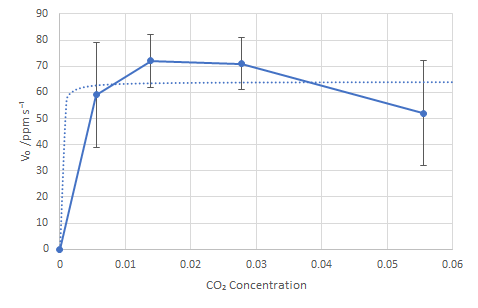
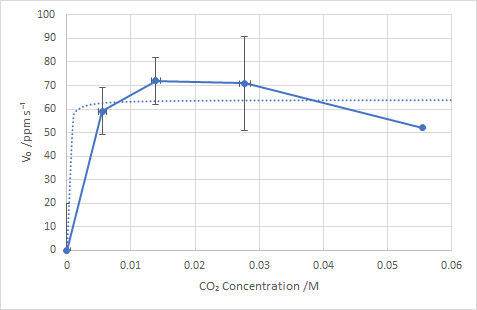
finished IA

Changed region(s): [[0.0, 0.0, 1.0, 1.0], [0.4109, 0.9058, 0.6751, 0.9643], [0.9099, 0.8182, 0.9686, 0.8766]]

diff --git a/ia.tex b/ia.tex
@@ -43,11 +43,11 @@ I have always enjoyed cooking as a mostly self-taught hobby. Having experimented
 \section{Background}
 
 \subsection{What Is Yeast}
-Yeast are single celled, eukaryotic organisms of the fungus kingdom. Like many other life forms, yeast requires food to survive, by converting carbohydrates or saccharides into energy through aerobic or anaerobic respiration \parencite{ref}. Among the many different types of yeast, the one used in this internal assessment is part of the \emph{Saccharomyces cerevisiae} strain - specifically, baker's yeast \parencite{ref}.
+Yeast are single celled, eukaryotic organisms of the fungus kingdom. Like many other life forms, yeast requires food to survive, by converting carbohydrates or saccharides into energy through aerobic or anaerobic respiration \parencite{what-is-yeast}. Among the many different types of yeast, the one used in this internal assessment is part of the \emph{Saccharomyces cerevisiae} strain - specifically, baker's yeast \parencite{britannica}.
 
 \medskip
 
-This internal assessment will focus on the use of active dry yeast, which contain pellets of live yeast cells coated with a layer of dehydrated yeast cells, \parencite{ref} allowing it to stay dormant, giving it a longer shelf life. Hence, active dry yeast must be activated through rehydration in lukewarm water from 37\,\si{\celsius} to 43\,\si{\celsius} (optimal fermentation conditions) for 5 to 10 minutes in a process called proofing, ensuring that the yeast gets dissolved in the water \parencite{ref}.
+This internal assessment will focus on the use of active dry yeast, which contain pellets of live yeast cells coated with a layer of dehydrated yeast cells, \parencite{know-your-yeast} allowing it to stay dormant, giving it a longer shelf life. Hence, active dry yeast must be activated through rehydration in lukewarm water from 37\,\si{\celsius} to 43\,\si{\celsius} (optimal fermentation conditions) for 5 to 10 minutes in a process called proofing, ensuring that the yeast gets dissolved in the water \parencite{masterclass}.
 
 \subsection{Aerobic and Anaerobic Respiration in Yeast}
 It is well known that yeast reacts with glucose to produce ethanol and carbon dioxide. To explore the details of how this works, it is crucial to understand how yeast undergoes both aerobic and anaerobic respiration.
@@ -68,7 +68,7 @@ Aerobic respiration is broken down into 3 steps:
 
 \medskip
 
-However, the focus of this internal assessment is on anaerobic respiration of yeast due to the limited supply of oxygen in the environment that the experiment was carried out in. When exploring the details of anaerobic respiration, glycolysis is determined to be a step that both aerobic and anaerobic respiration share, and it itself can be split up ito 3 steps\parencite{ref}.
+However, the focus of this internal assessment is on anaerobic respiration of yeast due to the limited supply of oxygen in the environment that the experiment was carried out in. When exploring the details of anaerobic respiration, glycolysis is determined to be a step that both aerobic and anaerobic respiration share, and it itself can be split up ito 3 steps\parencite{biochem}.
 
 \newpage
 
@@ -104,7 +104,7 @@ The third and final step of glycolysis converts the DHAP to pyruvate, another th
     \label{fig:figure3}
 \end{figure}
 
-Like glucose, GAP goes through another series of reactions catalyzed by multiple enzymes that eventually turn it into Pyruvate. During one step of the process, a molecule called \ce{NAD+} (nicotinamide adenine dinucleotide, a coenzyme found in the cell that is crucial to metabolic processes) \parencite{ref} gets reduced to NADH while GAP is simultaneously oxidized. The phosphate groups that were taken from ATP in the first step is combined with ADP twice to form \ce{2ATP}. Since the DHAP got converted into GAP in the previous step, 4 total ATP is formed \parencite{ref}. Thus, the net equation for the formation of pyruvate is thus given by:
+Like glucose, GAP goes through another series of reactions catalyzed by multiple enzymes that eventually turn it into Pyruvate. During one step of the process, a molecule called \ce{NAD+} (nicotinamide adenine dinucleotide, a coenzyme found in the cell that is crucial to metabolic processes) \parencite{nad-importance} gets reduced to NADH while GAP is simultaneously oxidized. The phosphate groups that were taken from ATP in the first step is combined with ADP twice to form \ce{2ATP}. Since the DHAP got converted into GAP in the previous step, 4 total ATP is formed \parencite{biochem}. Thus, the net equation for the formation of pyruvate is thus given by:
 \begin{equation}
     \ce{Glucose + 2HPO_{4}^{2-} + 2ADP + 2NAD+ -> 2Pyruvate + 2ATP + 2 NADH + 2H+ + 2H2O}
 \end{equation}
@@ -153,7 +153,7 @@ Given the following chemical reaction denoting alcoholic fermentation:
 \begin{equation}
     \ce{A -> 2B + 2C}
 \end{equation}
-Studying the kinetics of this reaction is useful for predicting its behvaiour. Kinetics in chemistry refers to the study of rates of chemical reactions, which is a measurement of the change in concentration of products and reactants over a period of time \parencite{ref}.
+Studying the kinetics of this reaction is useful for predicting its behvaiour. Kinetics in chemistry refers to the study of rates of chemical reactions, which is a measurement of the change in concentration of products and reactants over a period of time.
 
 \medskip
 
@@ -166,14 +166,14 @@ Additionally, the rate law states how the reaction velocity will be directly pro
 \begin{equation}
     V = k[A]^m
 \end{equation}
-Where $k$ is is the rate constant and the sum of the powers denote the order of the reaction. In the case of alcoholic fermentation, the order is purely dependent on $m$ \parencite{ref}.
+Where $k$ is is the rate constant and the sum of the powers denote the order of the reaction. In the case of alcoholic fermentation, the order is purely dependent on $m$.
 
 \medskip
 
 If the order of the reaction is 0, the rate of reaction will not be dependent on the concentration of the reactants, that is $V = k[A]^0 = k$. If the order of the reaction is 1, the rate of reaction will be proportional to the concentration of the reactants, that is $V = k[A]^1 = k[A]$.
 
 \subsection{Michaelis Menten Enzyme Kinetics}
-When reactions are enzyme-catalyzed, enzyme kinetics may also be used to predicting the behvaiour of the reaction. The Michaelis Menten model, proposed by Leonor Michaelis and Maud Menten in 1913 is concerned with the relationship between initial reaction velocity $V_0$ (rate of enzyme catalysis), and the substrate concentration \parencite{ref}:
+When reactions are enzyme-catalyzed, enzyme kinetics may also be used to predicting the behvaiour of the reaction. The Michaelis Menten model, proposed by Leonor Michaelis and Maud Menten in 1913 is concerned with the relationship between initial reaction velocity $V_0$ (rate of enzyme catalysis), and the substrate concentration \parencite{biochem}:
 \begin{equation}
     \ce{E + S <=>[k_1][k_{-1}] ES ->[k_2] E + P}
 \end{equation}
@@ -290,7 +290,7 @@ Before starting the lab, physical, environmental, and ethical safety issues must
     \hline
     Wiring and electronics & Baggy clothing should not be worn to avoid the risk of accidentally tangling with wires. If not used in an experiment, chemicals should be kept far away from electronics.\\
     \hline
-    Dumping products down the drain & Yeast should not be dumped down the drain unless it is dissolved and heavily diluted \parencite{ref}. Similarly, dumping concentrated ethanol is hazardous unless heavily diluted as well. \parencite{ref}\\
+    Dumping products down the drain & Yeast should not be dumped down the drain unless it is dissolved and heavily diluted \parencite{baking-yeast-dispose}. Similarly, dumping concentrated ethanol is hazardous unless heavily diluted as well. \parencite{sewer-disposal}\\
     \hline
     Wasting yeast & Yeast used in this experiment is also used in baking, and wasting it could be an ethical concern. Any unused yeast that has not been contaminated with a scoopula should be returned.\\
     \hline
@@ -335,6 +335,8 @@ The following table lists out all dependent, independent, and control variables 
     \hline
 \end{tabularx}
 \end{table}
+
+\newpage
 
 \subsection{Apparatus and Experimental Setup}
 The following materials were used in my experiment:
@@ -421,7 +423,7 @@ The following table displays qualitative observations that were observed for dif
 \end{tabularx}
 \end{table}
 
-A sample calculation for the concentration uncertainty using the basic method is provided below for mass 0.5\,\si{g}. The molar mass of glucose is taken to be 180.18\,\si{g.mol^{-1}} \parencite{ref}:
+A sample calculation for the concentration uncertainty using the basic method is provided below for mass 0.5\,\si{g}. The molar mass of glucose is taken to be 180.18\,\si{g.mol^{-1}} \parencite{data-booklet}:
 \begin{align*}
     c &= \frac{n}{v} = \frac{m/M}{v} \\
     &= \frac{0.5/180.18}{0.1} = 0.02775\,\si{M} \\  %% TODO better equations
@@ -471,13 +473,43 @@ With the processed data in tablex, reaction velocity can be plotted against gluc
     \centering
     \includegraphics{figures/graph_03.png}
     \vspace*{-12pt}
-    \caption{MM graph}
+    \caption{The Michaelis Menten model derived from a curve of best fit plotted against experimental values}
     \label{fig:graph3}
 \end{figure}
 
 \section{Analysis}
+Firstly, all concentration-time graphs were normalized such that the carbon dioxide concentration reading at $t=0$ is 0, making interpreting them easier. This is because the initial concentration reading in the room is the same for all trials, and this experiment is more concerned with reaction velocity (slope) rather than the final \ce{CO2} concentration.
+
+\medskip
+
+For the most part, all concentration-time graphs followed a linear trend for the first 10 minutes of the reaction. This implies a zero order reaction, meaning at this stage, the initial reaction velocity is independent of the glucose concentration. However, none of the graphs exhibited the end behaviour as the reaction approaches equilibrium, because it was only allowed to react for 10 minutes. Thus, the fermentation process of yeast was a slower reaction than proposed in the hypothesis.
+
+\medskip
+
+The processed data in Graph (3) somewhat fit the general trend of the Michaelis Menten model. The theoretical curve fitted to the data is valid because it crosses through all the vertical error bars. From the calculated values of $V_{max}$ and $K_m$, several conclusions can be made about the fermentation process of yeast. A very low value of $K_m$ suggests that enzymes have a very high affinity for the substrate \parencite{biochem}, and which makes sense because according to Equation (15), a small $K_m$ implies a large denominator, meaning the concentration of enzyme substrate complex is significantly larger.
+
+\medskip
+
+Additionally, the Michaelis Menten model is consistent with the raw data. Starting from around 0.005\,\ce{M}, the initial reaction velocity starts to become independent of the substrate concentration. This is consistent with the concentration-time graphs because they start off as 0 order reaction, and their initial reaction velocity seems to reside in the range where the Michaelis Menten curve starts to become asymptotic. Theoretically, the fermentation could start off as a first order reaction if the glucose concentration was small enough, since the initial reaction velocity increases linearly with changes of concentration about the origin.
 
 \section{Evaluation}
+The largest potential source of error was deduced to be the temperature of the water, because it was difficult to keep constant, especially in between trials when the warm water bath was refilled. The temperature reading on the magnetic stirring hotplate wasn't the same as the water, meaning it was adjusted a few times, leaving room for a range of solution temperatures, which increases or decreases the rate at which carbon dioxide gas was produced, if the temperature was higher or lower, respectively.
+
+\medskip
+
+Observing the Michaelis Menten plot, the reaction velocity should increase as substrate concentration increases, not decrease, as observed with the plotted data. This implies that the reaction velocity should have been higher when it was not. The two major assumed reasons for this major discrepancy are listed as follows.
+
+\medskip
+
+First of all, adding yeast and glucose to the bottle when the insides are wet causes some of the substances to stick to the sides. Although the bottle was swirled with water after this happened, it's likely that not all the yeast ended up reacting to all the glucose. Secondly, the time between experiments could have been too short. Usually the first experiment of the day yields the most accurate results, but it's possible that not enough time was given carbon dioxide in the \ce{CO2} gas sensor to completely diffuse out, decreasing the effectiveness in the instrument.
+
+\medskip
+
+Additionally, escaping carbon dioxide could also be a contributing factor, but it should have a very minute impact because the bottle was sealed off by an airtight rubber portion of the \ce{CO2} gas sensor.
+
+\medskip
+
+These skewed results may also reflect the raw data obtained from the plotted concentration-time graphs. For example, the reaction velocity in Graph (b) from Appendix 2 seems to change at about 350 seconds. This sudden change in slope is believed to be incoherent stirring, since the dent at the bottom of the Nalgene bottle makes it hard for the stir bar to reach every corner of the bottle. Lastly, Graph (d) from both Appendix 2 and 3, which both happen to come from a solution with 1\,\si{g} of glucose added, seems to vaguely emulate the behavior of a first order reaction. A potential explanation for this could be the time it takes for a larger amount of glucose to dissolve, giving an underestimate for the initial reaction velocity. Unsurprisingly, these three graphs also have the smallest $R^2$ values with regards to their lines of best fit.
 
 \section{Suggestions for Future Study}
 Throughout all of my trials, the reaction was stopped before reaching equilibrium, so the end behaviour of the reaction could not be studied. By giving the yeast more time for fermentation and potentially collecting the produced carbon dioxide gas through water displacement methods could allow for further analysis on theoretical and actual yield.
